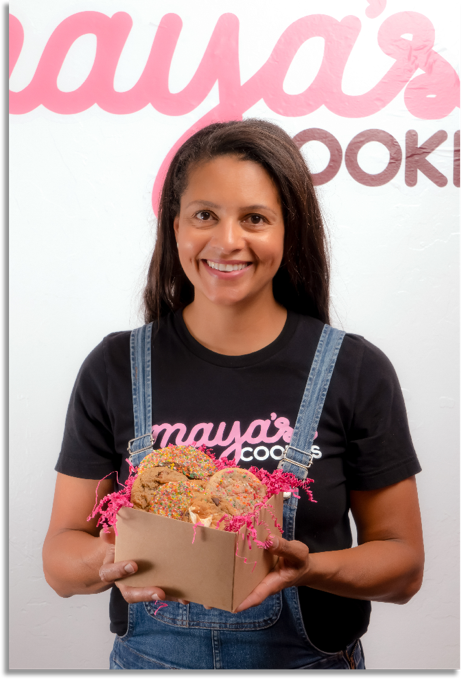
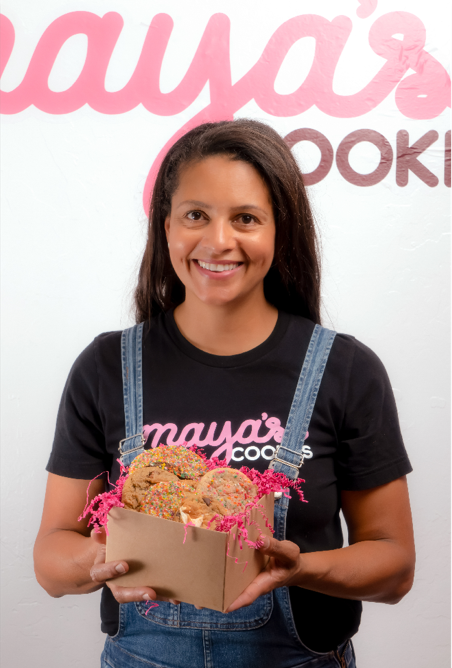
fix sponsor page image styles

diff --git a/components/ResponsiveImage.js b/components/ResponsiveImage.js
@@ -1,67 +1,95 @@
-import React, { useState } from 'react';
-import { Platform, View, Image } from 'react-native';
-import { responsiveImageWidthCDN } from '../utils';
-import NextImage from 'next/image';
-const isWeb = Platform.OS === 'web';
+import React, { useState } from "react";
+import { Platform, View, Image } from "react-native";
+import { responsiveImageWidthCDN } from "../utils";
+import NextImage from "next/image";
+const isWeb = Platform.OS === "web";
 
 export function ResponsiveImage(props) {
+  const [width, setWidth] = useState();
+  const [height, setHeight] = useState();
+  const [uri, setURI] = useState();
 
-    const [ width, setWidth ] = useState()
-    const [ height, setHeight ] = useState()
-    const [ uri, setURI ] = useState()
+  let set = {};
+  if (uri) {
+    set = {
+      source: { uri: uri }
+    };
+  }
+  let { aspectRatio } = props.style;
+  if (props.style.width && props.style.height && !aspectRatio) {
+    aspectRatio = props.style.width / props.style.height;
+    //console.log('calc aspectRatio iresponsive image', aspectRatio)
+  }
+  //console.log('set', set)
 
-    let set = {};
-    if (uri) {
-        set = {
-            source: { uri: uri }
+  let src = props.src || (props.source && props.source.uri);
+  if (isWeb) {
+    //console.log('src', src)
+    return (
+      <NextImage
+        src={src}
+        alt={props.alt || null}
+        layout="responsive"
+        width={props.style.width}
+        height={
+          props.style.height || props.style.width * props.style.aspectRatio
         }
-    }
-    let  { aspectRatio } = props.style;
-    if (props.style.width && props.style.height && !aspectRatio) {
-        aspectRatio = props.style.width / props.style.height;
-        //console.log('calc aspectRatio iresponsive image', aspectRatio)
-    }
-    //console.log('set', set)
-
-    let src = props.src || props.source && props.source.uri
-    if (isWeb) {
-        //console.log('src', src)
-        return <NextImage
-                    src={src}
-                    alt={props.alt || null}
-                    layout="responsive"
-                    width={props.style.width}
-                    height={props.style.height || props.style.width * props.style.aspectRatio}
-                  />
-    }
-    return <View onLayout={(event) => {
-            let w = props.style.width;
-            //console.log('w', w, 'layout view width', event.nativeEvent.layout.width)
-            if (w > event.nativeEvent.layout.width) {
-                w = event.nativeEvent.layout.width
-            }
-            setWidth(w);
-            //console.log('set height', w, props.style.aspectRatio)
-            setHeight(w * (props.style.aspectRatio || 0.72));
-            if (props.cdn && props.source && props.source.uri && props.source.uri.indexOf('prismic-io.s3.amazonaws.com/spicygreenbook') > -1) {
-                setURI(props.source.uri + '?w=' + responsiveImageWidthCDN({containerWidth: w}));
-            }
-        }} style={{position: 'relative'}}>
-            {isWeb ? 
-                <NextImage
-                    src={src}
-                    alt={props.alt || null}
-                    layout="fill"
-                    objectFit="contain"
-                    objectPosition="left top"
-                    quality={100}
-                  />
-            : <Image
-                { ...props }
-                { ...set }
-                style={{width: width, height: height}}
-            />}
-            {props.layerColor && <View style={{position: 'absolute', left: 0, top: 0, width: width, height: height, backgroundColor: props.layerColor}} />}
-        </View>
-
+        objectFit={props.style.objectFit}
+      />
+    );
+  }
+  return (
+    <View
+      onLayout={event => {
+        let w = props.style.width;
+        //console.log('w', w, 'layout view width', event.nativeEvent.layout.width)
+        if (w > event.nativeEvent.layout.width) {
+          w = event.nativeEvent.layout.width;
+        }
+        setWidth(w);
+        //console.log('set height', w, props.style.aspectRatio)
+        setHeight(w * (props.style.aspectRatio || 0.72));
+        if (
+          props.cdn &&
+          props.source &&
+          props.source.uri &&
+          props.source.uri.indexOf(
+            "prismic-io.s3.amazonaws.com/spicygreenbook"
+          ) > -1
+        ) {
+          setURI(
+            props.source.uri +
+              "?w=" +
+              responsiveImageWidthCDN({ containerWidth: w })
+          );
+        }
+      }}
+      style={{ position: "relative" }}
+    >
+      {isWeb ? (
+        <NextImage
+          src={src}
+          alt={props.alt || null}
+          layout="fill"
+          objectFit="contain"
+          objectPosition="left top"
+          quality={100}
+        />
+      ) : (
+        <Image {...props} {...set} style={{ width: width, height: height }} />
+      )}
+      {props.layerColor && (
+        <View
+          style={{
+            position: "absolute",
+            left: 0,
+            top: 0,
+            width: width,
+            height: height,
+            backgroundColor: props.layerColor
+          }}
+        />
+      )}
+    </View>
+  );
 }

diff --git a/screens/Sponsors.js b/screens/Sponsors.js
@@ -45,7 +45,7 @@ function Page(props) {
 
   const scrollViewRef = useRef();
 
-  const handleScroll = (index) => {
+  const handleScroll = index => {
     if (index === 0) {
       // Temp topPage ref fix because fixed nav covers heading when jumping up
       topPage.current.scrollIntoView({
@@ -73,7 +73,7 @@ function Page(props) {
     }
   };
 
-  const scrollToView = (index) => {
+  const scrollToView = index => {
     console.log("attempt scroll", index);
     scrollViewRef.current.scrollTo({ x: 20, y: 400, animated: true });
     // window.scrollTo(0, 400)
@@ -108,7 +108,11 @@ function Page(props) {
 
   return (
     <SafeAreaView style={{ marginTop: Constants.statusBarHeight }}>
-      <ScrollView ref={scrollViewRef} scrollToOverflowEnabled={true} style={(isWeb && dimensions.width > 800) ? {transform: "none"} : {}}>
+      <ScrollView
+        ref={scrollViewRef}
+        scrollToOverflowEnabled={true}
+        style={isWeb && dimensions.width > 800 ? { transform: "none" } : {}}
+      >
         <View ref={topPage}>
           <View
             style={
@@ -436,7 +440,7 @@ function Page(props) {
           </View>
 
           <View
-            onLayout={(event) => setLayout(event.nativeEvent.layout)}
+            onLayout={event => setLayout(event.nativeEvent.layout)}
             ref={sponsorBenefit}
             style={[styles.section, { paddingTop: 20, paddingBottom: 20 }]}
           >
@@ -478,9 +482,9 @@ function Page(props) {
                       style={moreStyles.checkMark}
                     />
                     <Text style={moreStyles.checkedText}>
-                      Reach {props.listingsCount} participating businesses, thousands of
-                      customers, and our large volunteer network with over 1000
-                      applications from across the globe
+                      Reach {props.listingsCount} participating businesses,
+                      thousands of customers, and our large volunteer network
+                      with over 1000 applications from across the globe
                     </Text>
                   </View>
                   <View style={moreStyles.textList}>
@@ -525,7 +529,8 @@ function Page(props) {
                     style={{
                       width: 700,
                       resizeMode: "contain",
-                      aspectRatio: 1.2
+                      aspectRatio: 1.2,
+                      objectFit: "cover"
                     }}
                     alt="Mayas Cookies"
                     source={
@@ -555,7 +560,8 @@ function Page(props) {
                     style={{
                       width: 700,
                       resizeMode: "contain",
-                      aspectRatio: 1.2
+                      aspectRatio: 1.2,
+                      objectFit: "cover"
                     }}
                     alt="plate of crab"
                     source={
@@ -657,7 +663,7 @@ function Page(props) {
                 }}
               >
                 {sponsorLevels &&
-                  sponsorLevels.map((level) => (
+                  sponsorLevels.map(level => (
                     <View style={{ paddingBottom: 40 }} key={level.title}>
                       <View
                         style={
